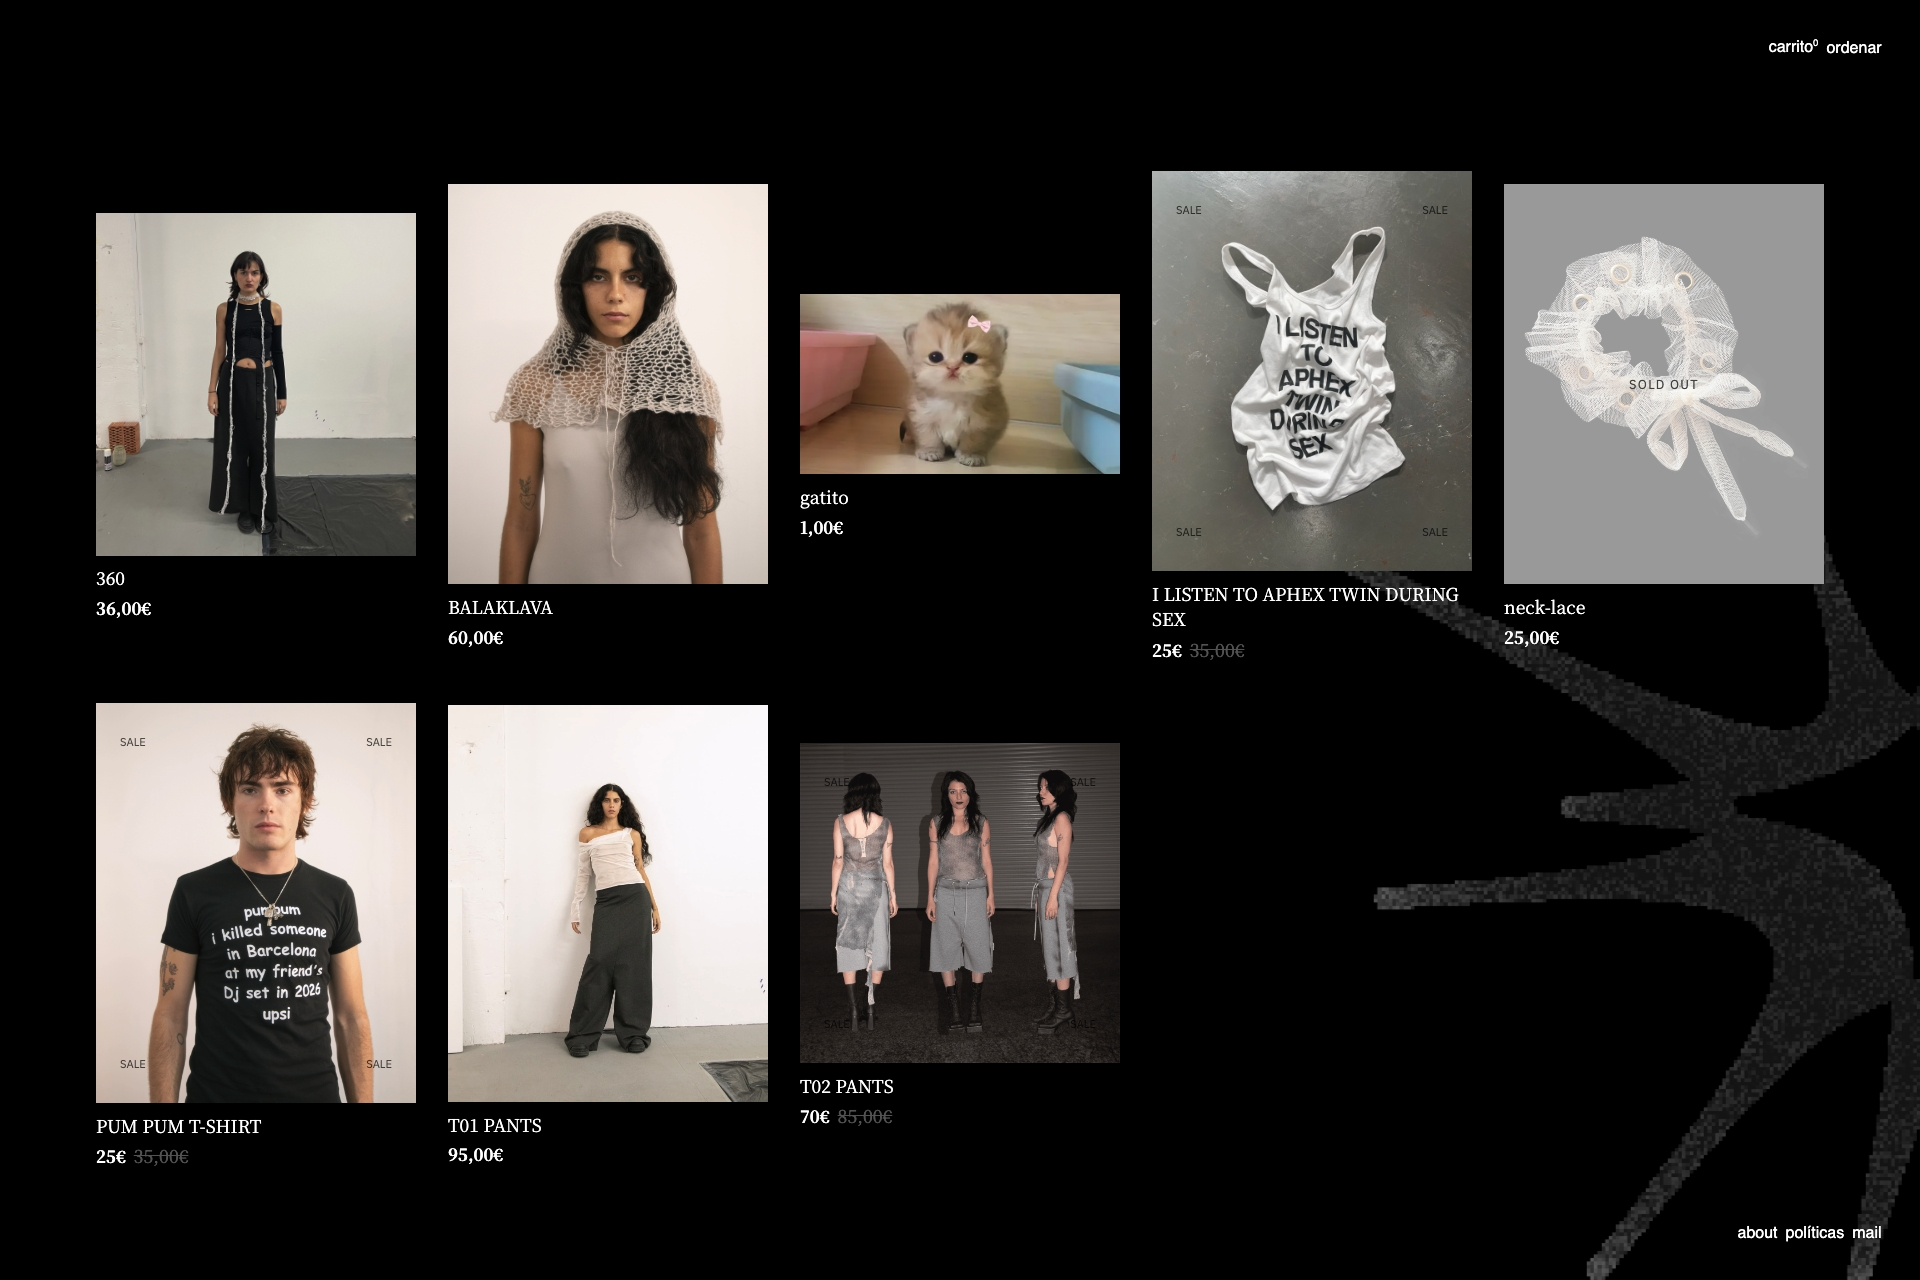
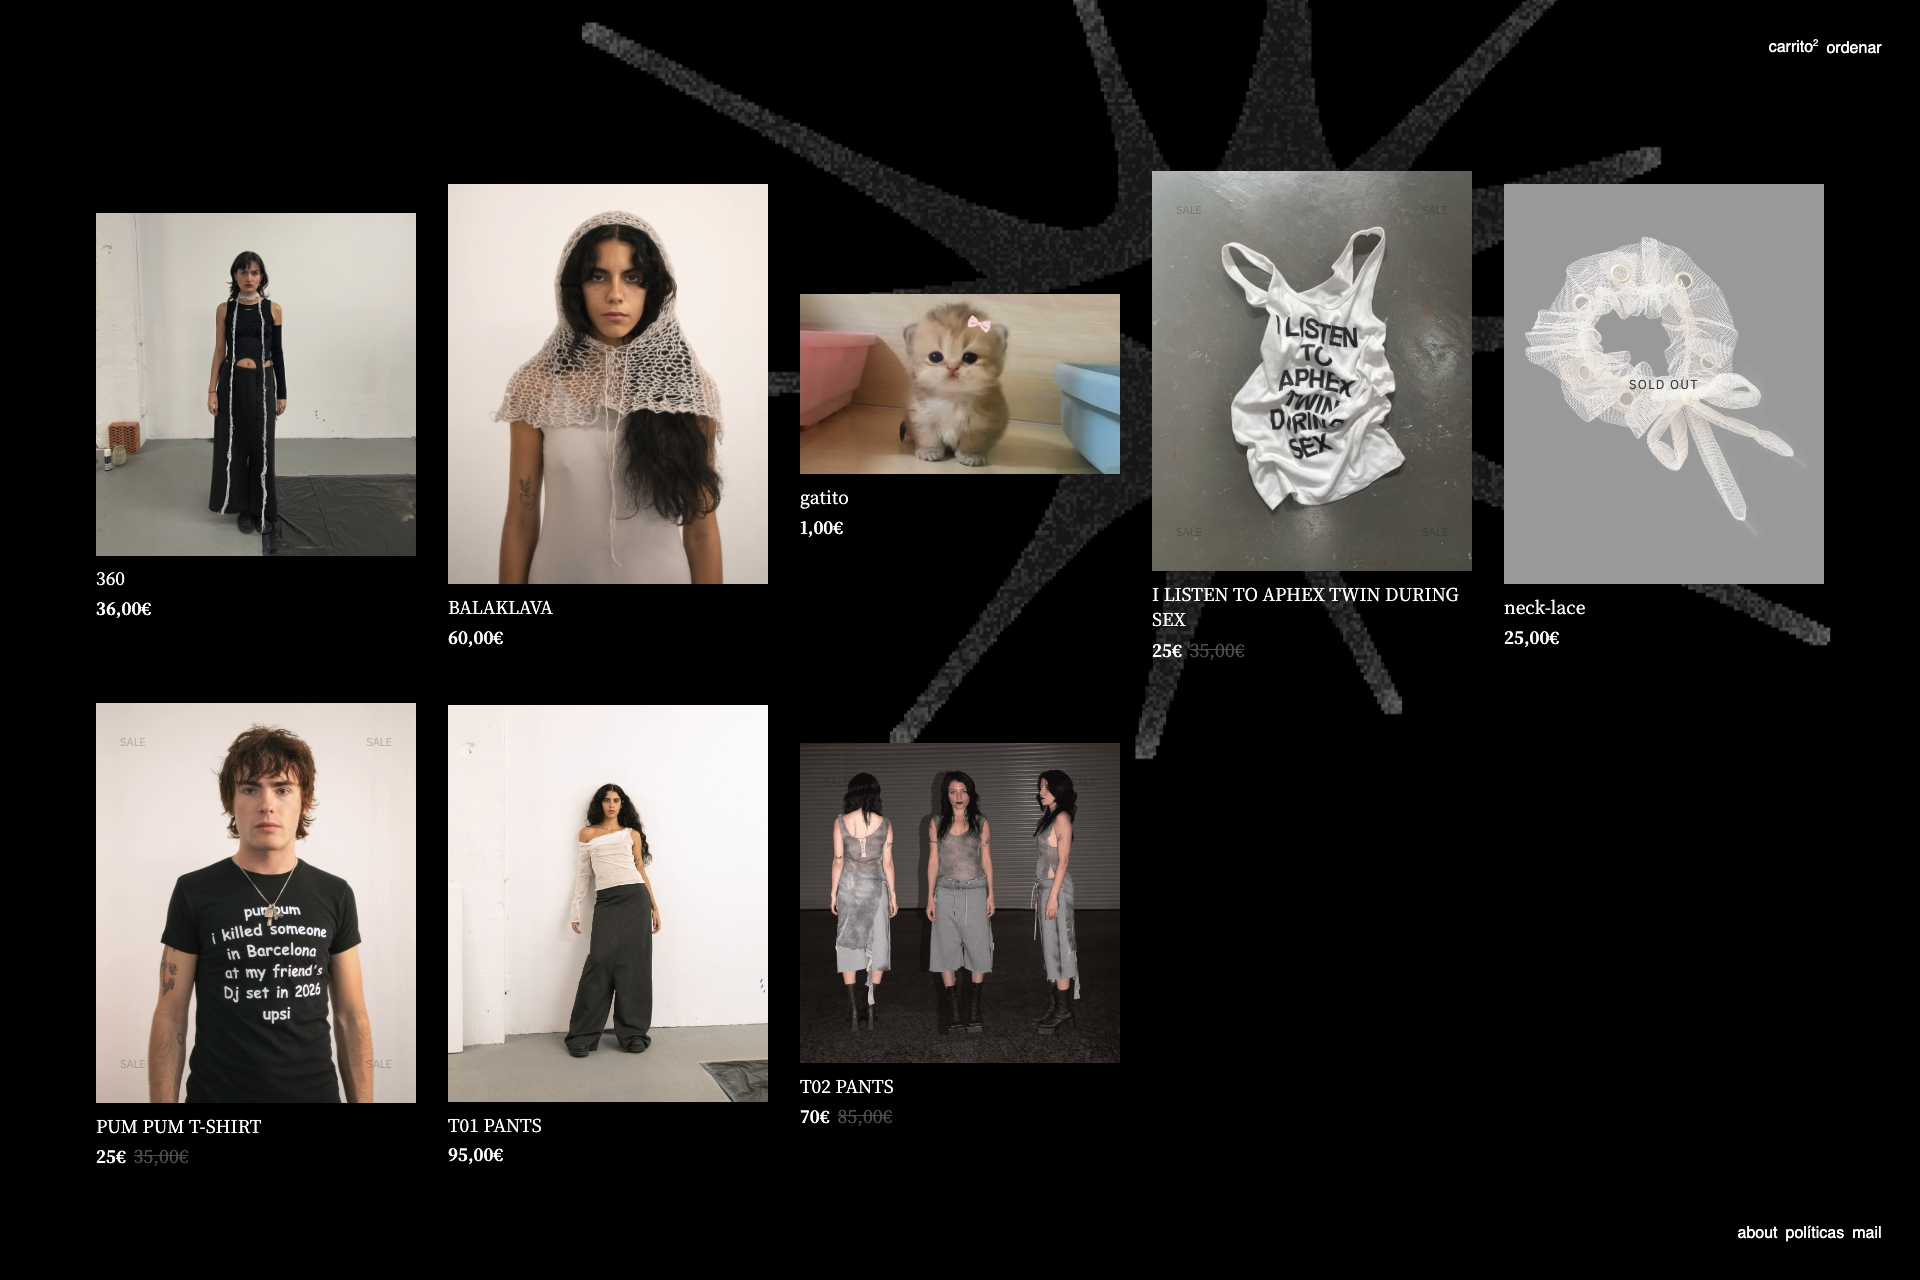
added new pics to web gallery

diff --git a/index.html b/index.html
@@ -187,6 +187,7 @@
       text-align: center;
       padding: 40px 80px;
       margin: 4rem auto 2rem;
+      z-index: 1000;
     }
 
     .header-cloud::before {
@@ -1261,7 +1262,7 @@
         carpeta: "andreacarilla",
         link: "https://meowrhino.github.io/andreacarilla/",
         movilPos: "left",
-        imgQuantity: 1,
+        imgQuantity: 5,
         textoES: "portfolio online y archivo de la fotógrafa <a href='https://meowrhino.github.io/andreacarilla/'>andrea carilla</a>. La página principal se divide en una galería y una nube de links con opciones de filtrado por categorías.",
         textoEN: "online portfolio and archive of photographer <a href='https://meowrhino.github.io/andreacarilla/'>andrea carilla</a>. The homepage combines a gallery with a link cloud and category filters.",
         textoFR: "portfolio en ligne et archive de la photographe <a href='https://meowrhino.github.io/andreacarilla/'>andrea carilla</a>. La page d’accueil mêle une galerie et un nuage de liens avec des filtres par catégorie.",
@@ -1273,7 +1274,7 @@
         carpeta: "bertaesteve",
         link: "https://meowrhino.github.io/snerta/",
         movilPos: "left",
-        imgQuantity: 1,
+        imgQuantity: 6,
         textoES: "archivo profesional de la curadora <a href='https://meowrhino.github.io/snerta/'>berta esteve</a> que se divide en una home scrolleable y un archivo de proyectos que puede actualizar ella misma.",
         textoEN: "professional archive of curator <a href='https://meowrhino.github.io/snerta/'>berta esteve</a>, featuring a scrollable home and a project archive she can update herself.",
         textoFR: "archives professionnelles de la curatrice <a href='https://meowrhino.github.io/snerta/'>berta esteve</a>, avec une page d’accueil défilante et un archive de projets qu’elle peut mettre à jour.",
@@ -1285,7 +1286,7 @@
         carpeta: "christine",
         link: "https://meowrhino.github.io/christine/",
         movilPos: "left",
-        imgQuantity: 1,
+        imgQuantity: 4,
         textoES: "web brújula para explorar el universo de <a href='https://meowrhino.github.io/christine/'>christine</a>. Los proyectos se disponen en coordenadas en 4 ejes y se eligen 2 para poblar el gráfico.",
         textoEN: "compass-like website to explore <a href='https://meowrhino.github.io/christine/'>christine</a>’s universe. Projects live on four axes; two are chosen to populate the chart.",
         textoFR: "site-boussole pour explorer l’univers de <a href='https://meowrhino.github.io/christine/'>christine</a>. Les projets se placent sur 4 axes et deux alimentent le graphique.",
@@ -1297,7 +1298,7 @@
         carpeta: "e3000",
         link: "https://meowrhino.github.io/e300/",
         movilPos: "left",
-        imgQuantity: 1,
+        imgQuantity: 7,
         textoES: "web oficial del colectivo <a href='https://meowrhino.github.io/e300/'>estructuras3000</a>.",
         textoEN: "official website of the collective <a href='https://meowrhino.github.io/e300/'>estructuras3000</a>.",
         textoFR: "site officiel du collectif <a href='https://meowrhino.github.io/e300/'>estructuras3000</a>.",
@@ -1309,7 +1310,7 @@
         carpeta: "hifasstudio",
         link: "https://meowrhino.github.io/anakatana/",
         movilPos: "left",
-        imgQuantity: 2,
+        imgQuantity: 7,
         textoES: "ecommerce funcional para la tienda <a href='https://meowrhino.github.io/anakatana/'>hifas studio</a> con panel de administración, registro de transacciones y cobros vía Stripe.",
         textoEN: "functional ecommerce for <a href='https://meowrhino.github.io/anakatana/'>hifas studio</a> with admin panel, transaction logging and Stripe payments.",
         textoFR: "e-commerce fonctionnel pour <a href='https://meowrhino.github.io/anakatana/'>hifas studio</a> avec panneau d’admin, journal des transactions et paiements Stripe.",
@@ -1333,7 +1334,7 @@
         carpeta: "rikamichie",
         link: "https://meowrhino.github.io/rikamichie/",
         movilPos: "left",
-        imgQuantity: 1,
+        imgQuantity: 7,
         textoES: "sitio web de <a href='https://meowrhino.github.io/rikamichie/'>rikamichie</a> donde se combinan todas sus disciplinas en una cruz navegable dividida en 6 pantallas.",
         textoEN: "website of <a href='https://meowrhino.github.io/rikamichie/'>rikamichie</a> combining all her disciplines in a navigable cross split into 6 screens.",
         textoFR: "site de <a href='https://meowrhino.github.io/rikamichie/'>rikamichie</a> combinant toutes ses disciplines dans une croix navigable en 6 écrans.",
@@ -1345,7 +1346,7 @@
         carpeta: "villagranota",
         link: "https://meowrhino.github.io/villagranota/",
         movilPos: "left",
-        imgQuantity: 1,
+        imgQuantity: 6,
         textoES: "statement online del colectivo <a href='https://meowrhino.github.io/villagranota/'>villagranota</a> por el código libre, divertido y honesto. Un pequeño estanque digital.",
         textoEN: "online statement of the collective <a href='https://meowrhino.github.io/villagranota/'>villagranota</a> for free, fun and honest code. A small digital pond.",
         textoFR: "déclaration en ligne du collectif <a href='https://meowrhino.github.io/villagranota/'>villagranota</a> pour un code libre, ludique et honnête. Un petit étang numérique.",
